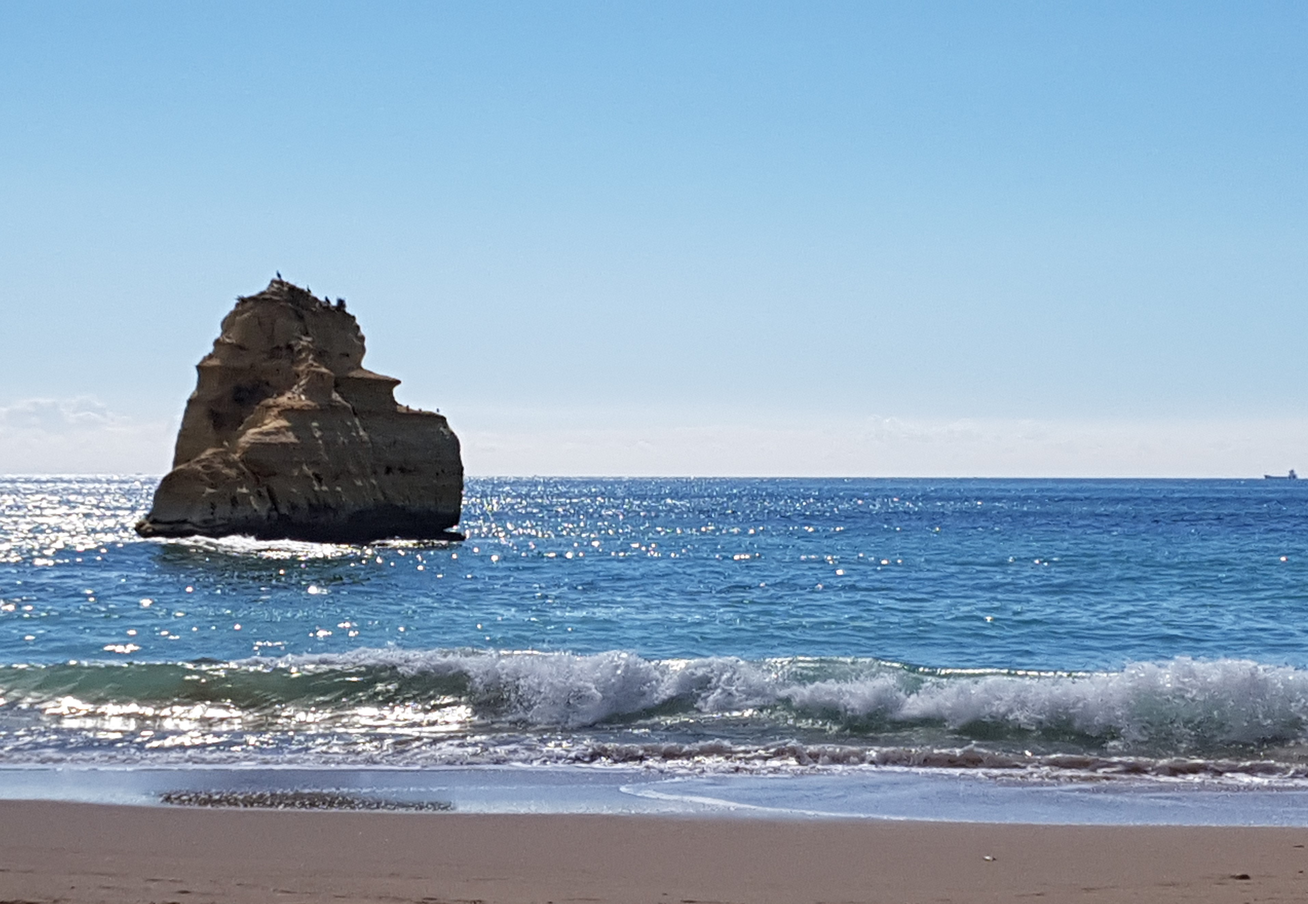
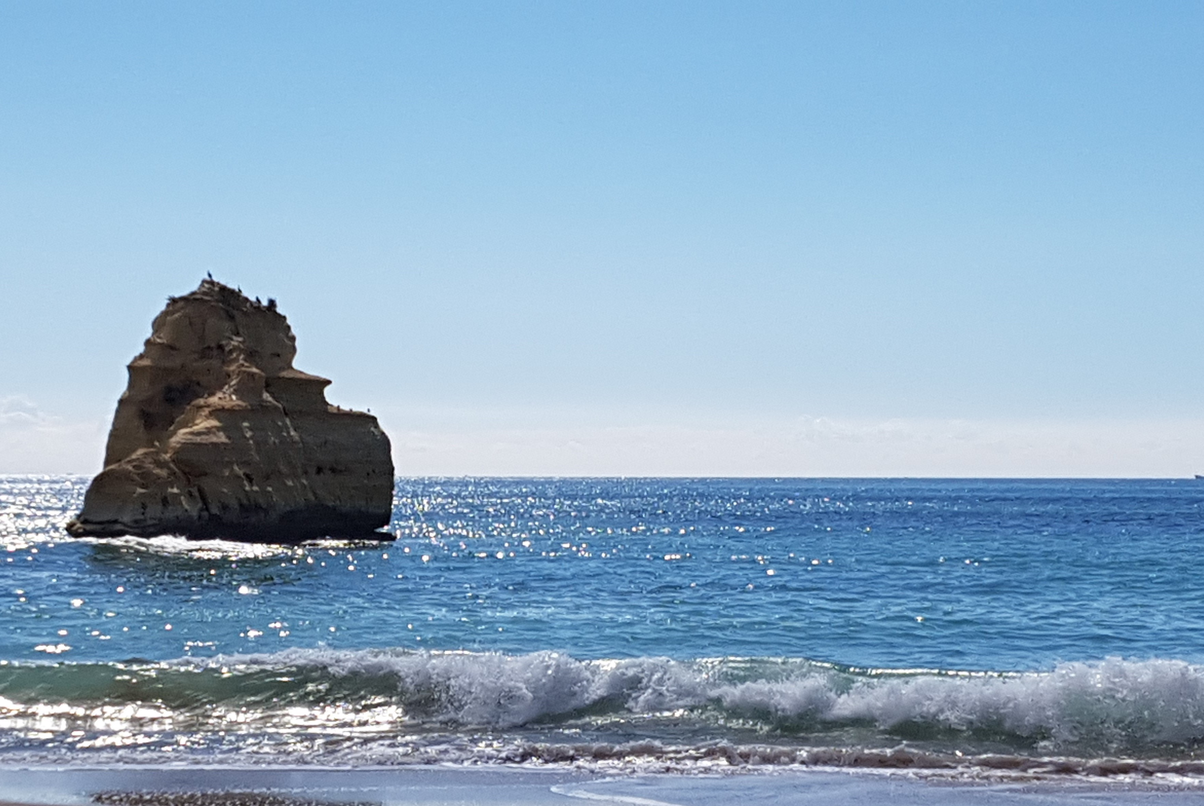
Changed opacity and cropped header img, changed characters in h3, some css changes

diff --git a/src/styles.css b/src/styles.css
@@ -10,28 +10,24 @@ body{
 
 
 .container{
-    max-width: 1400px;
-    margin: 0 auto;
-   
-    
+    max-width: 1300px;
+    margin: 0 auto;     
 }
 
 
 
 header {
   margin: 0 auto;
-  background-image: linear-gradient(rgba(0, 0, 0, 0.4), rgba(0, 0, 0, 0.5)),
+  background-image: linear-gradient(rgba(0, 0, 0, 0.2), rgba(0, 0, 0, 0.2)),
     url("../images/header.jpg") ;  
-  padding: 60px;  
+  padding: 130px;  
   text-align: center;
   background-size: cover;
   background-position: center;
   background-repeat: no-repeat;
   color: var(--color);
   border-radius:var(--border-radius);
-  
- 
- 
+  aspect-ratio: 16/9; 
 }
 
 header h1 {  
@@ -44,6 +40,7 @@ header h2{
   font-size: 40px; 
   font-weight: 200;
   line-height: 1.5; 
+  padding: 10px;
 }
 header h3{
   font-size: 24px; 
@@ -61,8 +58,9 @@ header a{
     text-transform: uppercase;
     background-color:var(--color);
     text-decoration: none;
-    padding: 5px;
+    padding: 10px;
     border-radius:var(--border-radius);
+    border: 1px solid;
 }
 @media (max-width:900px){
     header{

diff --git a/index.html b/index.html
@@ -12,7 +12,7 @@
 <body>
    <div class="container">
     <header>
-        <h3>.TRAVEL.</h3>
+        <h3>•TRAVEL•</h3>
     <h1>Welcome to Praia da Rocha</h1>
     <h2>The most beautiful beach in Algarve, my favourite 🥰</h2>
     <a href="">Learn more</a>
